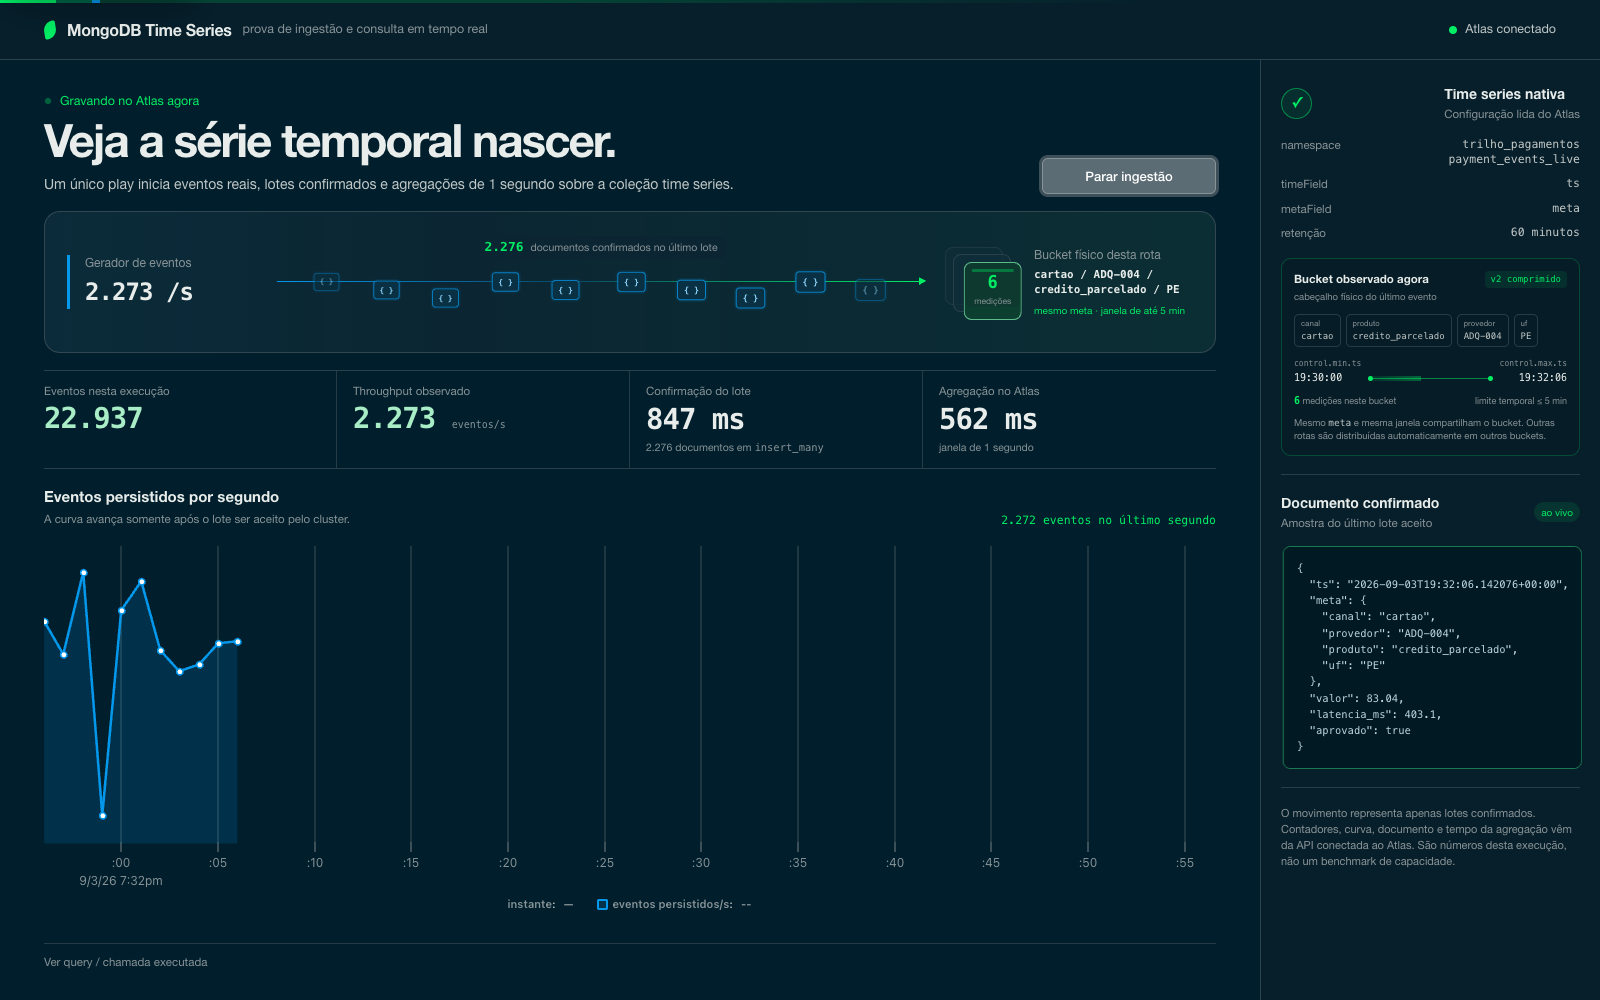
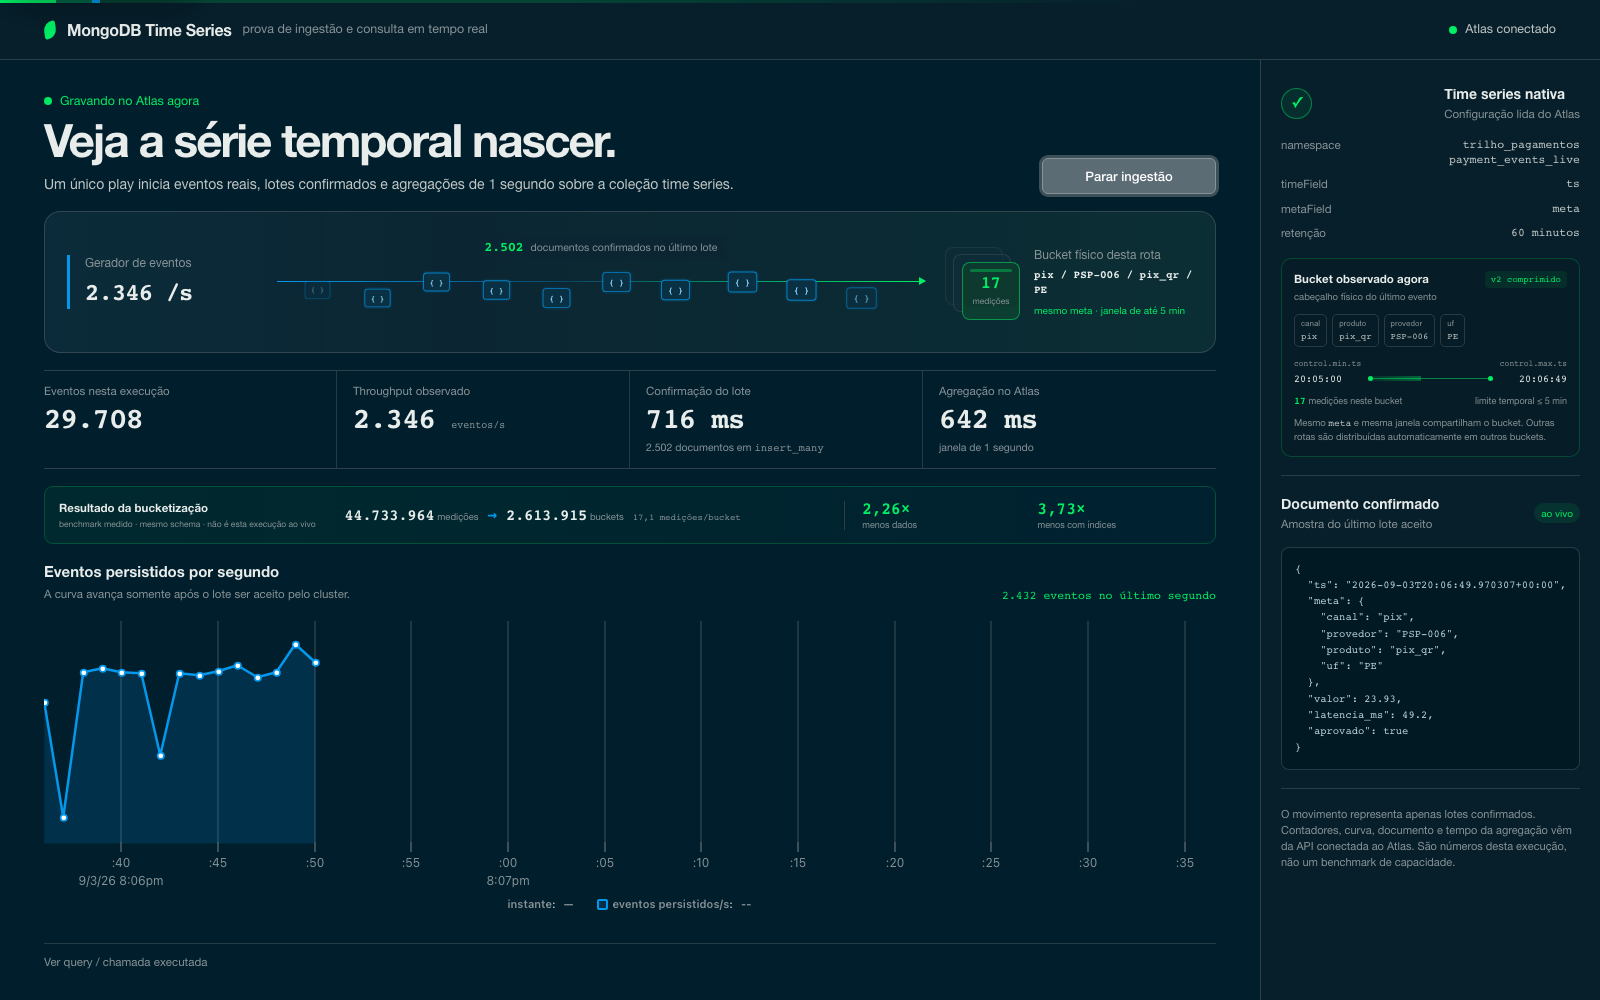
feat(demo): adiciona evidência compacta da bucketização

diff --git a/frontend/src/index.css b/frontend/src/index.css
@@ -218,6 +218,32 @@ body {
 .value-bump { animation: value-bump 280ms ease-out; }
 @keyframes value-bump { from { color: var(--accent); transform: translateY(-2px); } }
 
+.bucketization-result {
+  display: grid;
+  grid-template-columns: minmax(170px, .75fr) minmax(330px, 1.35fr) minmax(260px, 1fr);
+  align-items: center;
+  gap: 18px;
+  min-height: 58px;
+  padding: 9px 14px;
+  border: 1px solid rgba(0, 237, 100, .22);
+  border-radius: 9px;
+  background: linear-gradient(90deg, rgba(0, 237, 100, .055), rgba(4, 152, 236, .025));
+}
+.bucketization-result header { min-width: 0; }
+.bucketization-result header strong { display: block; color: var(--text-pri); font-size: 11.5px; }
+.bucketization-result header span { display: block; margin-top: 2px; color: var(--text-muted);
+  font-size: 8.5px; line-height: 1.3; }
+.bucketization-conversion { min-width: 0; display: flex; align-items: baseline; gap: 9px;
+  color: var(--text-muted); font-size: 9.5px; white-space: nowrap; }
+.bucketization-conversion span strong { color: var(--text-pri); font: 600 15px/1 var(--mono); }
+.bucketization-conversion i { color: var(--link); font: 500 16px/1 var(--mono); font-style: normal; }
+.bucketization-conversion small { color: var(--text-muted); font: 9px/1.2 var(--mono); }
+.bucketization-gain { min-width: 0; display: grid; grid-template-columns: repeat(2, minmax(0, 1fr));
+  gap: 12px; padding-left: 17px; border-left: 1px solid rgba(61, 79, 88, .65); }
+.bucketization-gain span { color: var(--text-muted); font-size: 9px; line-height: 1.25; }
+.bucketization-gain strong { display: block; margin-bottom: 2px; color: var(--accent);
+  font: 650 16px/1 var(--mono); }
+
 .chart-panel { flex: 1 1 auto; min-height: 300px; display: flex; flex-direction: column; }
 .chart-panel > header { display: flex; align-items: flex-end; justify-content: space-between; gap: 16px;
   margin-bottom: 6px; }
@@ -336,6 +362,9 @@ body {
   .ingestion-flow { grid-template-columns: 160px minmax(180px, 1fr) 205px; gap: 14px; padding-inline: 16px; }
   .bucket-stack { transform: scale(.86); margin-inline: -5px; }
   .proof-metrics strong { font-size: 20px; }
+  .bucketization-result { grid-template-columns: minmax(160px, .75fr) minmax(285px, 1.25fr) minmax(220px, 1fr);
+    gap: 12px; }
+  .bucketization-conversion { gap: 6px; }
 }
 
 @media (max-width: 900px) {
@@ -365,6 +394,9 @@ body {
   .proof-metrics article:nth-child(2) { border-right: 0; }
   .proof-metrics article:nth-child(3), .proof-metrics article:nth-child(4) { border-bottom: 0; }
   .proof-metrics article:nth-child(3) { padding-left: 0; }
+  .bucketization-result { grid-template-columns: 1fr; gap: 9px; padding: 12px; }
+  .bucketization-conversion { flex-wrap: wrap; white-space: normal; }
+  .bucketization-gain { padding: 9px 0 0; border-left: 0; border-top: 1px solid rgba(61, 79, 88, .65); }
   .chart-panel > header { align-items: flex-start; flex-direction: column; gap: 5px; }
   .chart-now { white-space: normal; }
   .query-meta { flex-direction: column; gap: 2px; }

diff --git a/frontend/src/App.jsx b/frontend/src/App.jsx
@@ -37,6 +37,16 @@ function documentoVisivel(documento) {
 
 const PACOTES = Array.from({ length: 11 }, (_, index) => index)
 
+// Evidência reproduzível da carga histórica versionada em queries/. Não representa
+// a execução curta da tela; os números e o método estão em queries/benchmarks.md.
+const BUCKETIZATION_BENCHMARK = Object.freeze({
+  events: 44_733_964,
+  buckets: 2_613_915,
+  eventsPerBucket: 17.1,
+  dataReduction: 2.26,
+  totalReduction: 3.73,
+})
+
 export default function App() {
   const [health, setHealth] = useState(null)
   const [live, setLive] = useState(null)
@@ -265,6 +275,23 @@ export default function App() {
               <small>janela de 1 segundo</small>
             </article>
           </div>
+
+          <section className="bucketization-result" aria-label="Resultado medido da bucketização">
+            <header>
+              <strong>Resultado da bucketização</strong>
+              <span>benchmark medido · mesmo schema · não é esta execução ao vivo</span>
+            </header>
+            <div className="bucketization-conversion">
+              <span><strong>{numero(BUCKETIZATION_BENCHMARK.events)}</strong> medições</span>
+              <i aria-hidden="true">→</i>
+              <span><strong>{numero(BUCKETIZATION_BENCHMARK.buckets)}</strong> buckets</span>
+              <small>{numero(BUCKETIZATION_BENCHMARK.eventsPerBucket, 1)} medições/bucket</small>
+            </div>
+            <div className="bucketization-gain">
+              <span><strong>{numero(BUCKETIZATION_BENCHMARK.dataReduction, 2)}×</strong> menos dados</span>
+              <span><strong>{numero(BUCKETIZATION_BENCHMARK.totalReduction, 2)}×</strong> menos com índices</span>
+            </div>
+          </section>
 
           <section className="chart-panel">
             <header>

diff --git a/docs/briefing/03-interface-fluxos.md b/docs/briefing/03-interface-fluxos.md
@@ -16,6 +16,7 @@ velocity control belongs to the stage experience.
 │ gerador ── { } { } { } ── lote confirmado ──▶ buckets por rota   │
 │                                                                    │
 │ eventos │ throughput │ confirmação do lote │ agregação no Atlas   │
+│ 44,7 M medições → 2,61 M buckets │ 2,26× dados │ 3,73× total     │
 │                                                                    │
 │ eventos persistidos por segundo ───── curve grows for 60 seconds  │
 │ ▸ Ver query / chamada executada                                    │
@@ -47,6 +48,12 @@ the bucket header comes from `system.buckets.payment_events_live` and exposes on
 
 The aggregation excludes the current, incomplete second. Otherwise the last chart point
 looks like a throughput collapse while its batch is still being written.
+
+The compact bucketization strip is deliberately not live telemetry. It is labelled as a
+measured benchmark using the same schema and reproduces the versioned historical result:
+44,733,964 measurements, 2,613,915 buckets, 17.1 measurements per bucket, 2.26× less
+data per event and 3.73× less total storage per event including indexes. Its sources are
+`queries/bench-results.json` and `queries/benchmarks.md`.
 
 Starting a new session does not drop data. The API records `started_at`, and the live
 aggregation uses the later of that instant or the last 60 seconds. TTL remains the only

diff --git a/README.md b/README.md
@@ -7,7 +7,7 @@ The stage deliberately has **one screen, one Play button and one claim**. PIX, c
 TED are dimensions of the same payment rail, not three ingestion pipelines. The UI only
 shows values returned after Atlas acknowledges the write.
 
-![Live MongoDB Atlas time series proof showing 2.2k confirmed events per second, concurrent aggregation and the physical bucket for the latest route](docs/screenshots/08-prova-ao-vivo.png)
+![Live MongoDB Atlas time series proof showing confirmed ingestion, concurrent aggregation, physical bucketing and measured storage reduction](docs/screenshots/08-prova-ao-vivo.png)
 
 > All data is synthetic and all providers are fictional. No customer traffic, identity,
 > cluster hostname or connection string is included in this repository.
@@ -30,6 +30,15 @@ screen then reports:
 
 The stage operating point was measured on the shared M20 at **2,281 confirmed events/s**
 for a full 60-second window, with the aggregation running concurrently.
+
+Immediately below the live metrics, a compact evidence strip connects the physical
+mechanism to its measured result on the same schema. It is explicitly labelled as a
+historical benchmark—not as output from the short live run:
+
+```text
+44.7 M measurements → 2.61 M buckets · 17.1 measurements/bucket
+2.26× less data/event · 3.73× less total storage/event including indexes
+```
 
 ### 2 · Watch MongoDB place measurements into buckets
 

diff --git a/implementation_plan.md b/implementation_plan.md
@@ -13,12 +13,14 @@ surface: one collection, one Play action and evidence returned by the connected 
 The workload is a digital bank's rail: PIX, card and TED across 44 providers, one
 document per authorised transaction.
 
-The visible proof has four parts:
+The visible proof has five parts:
 
 1. one mixed `insert_many` feed into `payment_events_live`;
 2. confirmed batches and a confirmed document moving on screen;
 3. one-second aggregation while writes continue;
 4. collection configuration read back from Atlas, plus the executed pipeline on demand.
+5. a compact, explicitly historical benchmark strip connecting 44.7 M measurements to
+   2.61 M physical buckets and the measured per-event storage reduction.
 
 The historical queries, anomaly detector, incidents, velocity and storage experiments
 remain valuable engineering assets. They are no longer navigation choices in the stage

diff --git a/docs/demo-script.md b/docs/demo-script.md
@@ -31,6 +31,12 @@ Let the graph grow for at least 20 seconds. Do not click anything else. The fixe
 60-second window is deliberate: the audience sees the series being formed instead of a
 finished chart stretching to fill its container.
 
+Use the compact strip to connect mechanism to outcome: the live bucket proves how Atlas
+stores a route; the historical benchmark proves the aggregate effect on the same schema.
+Say explicitly that 44.7 M measurements became 2.61 M buckets and used 2.26× less data
+per event, or 3.73× less total storage per event including indexes. Do not present these
+as numbers produced by the short live run.
+
 Point to **Documento confirmado**. It changes only after a successful write. The motion
 is a representation of confirmed batches; it is not an independent frontend animation
 pretending that a write happened.

diff --git a/CLAUDE.md b/CLAUDE.md
@@ -19,6 +19,9 @@ Uma tela, uma ação, uma tese:
 4. **Prova técnica** lê do Atlas `timeField`, `metaField`, TTL e o bucket físico do
    último evento (`control.min/max/count/version`), além de oferecer o pipeline
    executado sob demanda.
+5. **Resultado da bucketização** separa a execução ao vivo do benchmark histórico com
+   o mesmo schema: 44,7 M medições em 2,61 M buckets, 2,26× menos dados por evento e
+   3,73× menos armazenamento total por evento incluindo índices.
 
 Provedores, detecção, incidentes, velocity, ranking e comparação de armazenamento
 continuam no backend e no material de engenharia, mas não pertencem ao modo palco.

diff --git a/docs/screenshots/README.md b/docs/screenshots/README.md
@@ -8,7 +8,7 @@ cropped from that same interface state.
 
 | File | Evidence |
 |---|---|
-| `08-prova-ao-vivo.png` | complete stage: confirmed ingestion, throughput, aggregation and bucket |
+| `08-prova-ao-vivo.png` | complete stage: confirmed ingestion, aggregation, physical bucket and measured bucketization result |
 | `09-bucket-fisico.png` | physical bucket header for the latest confirmed document |
 | `10-pipeline-executado.png` | complete aggregation pipeline executed by the chart |
 
